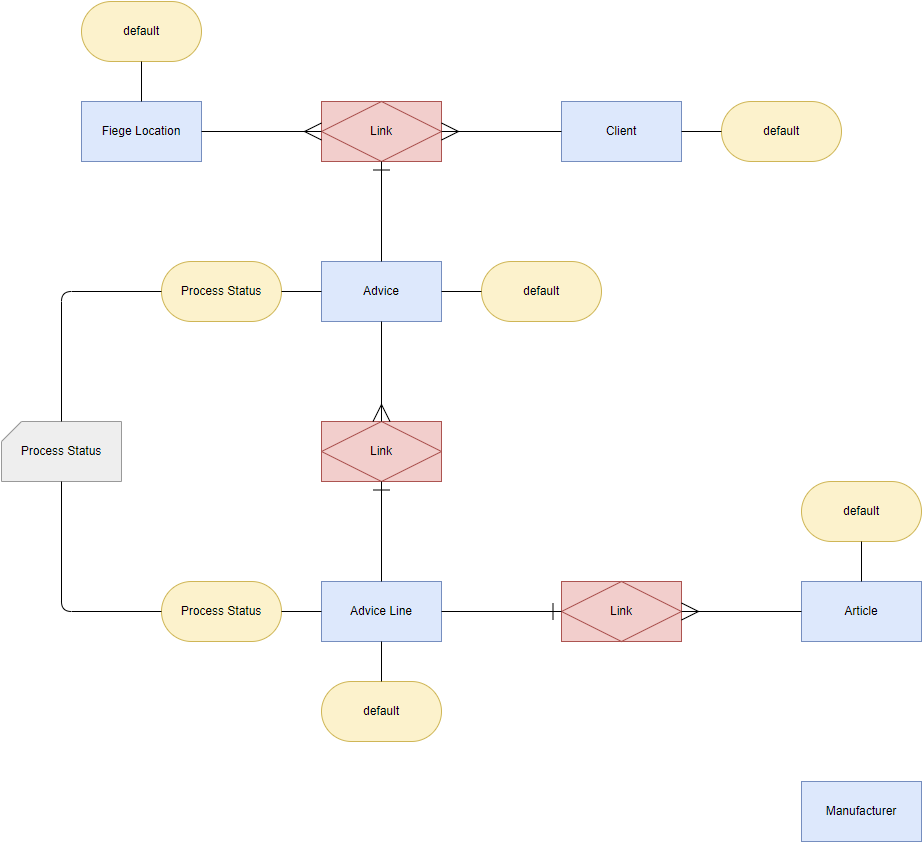
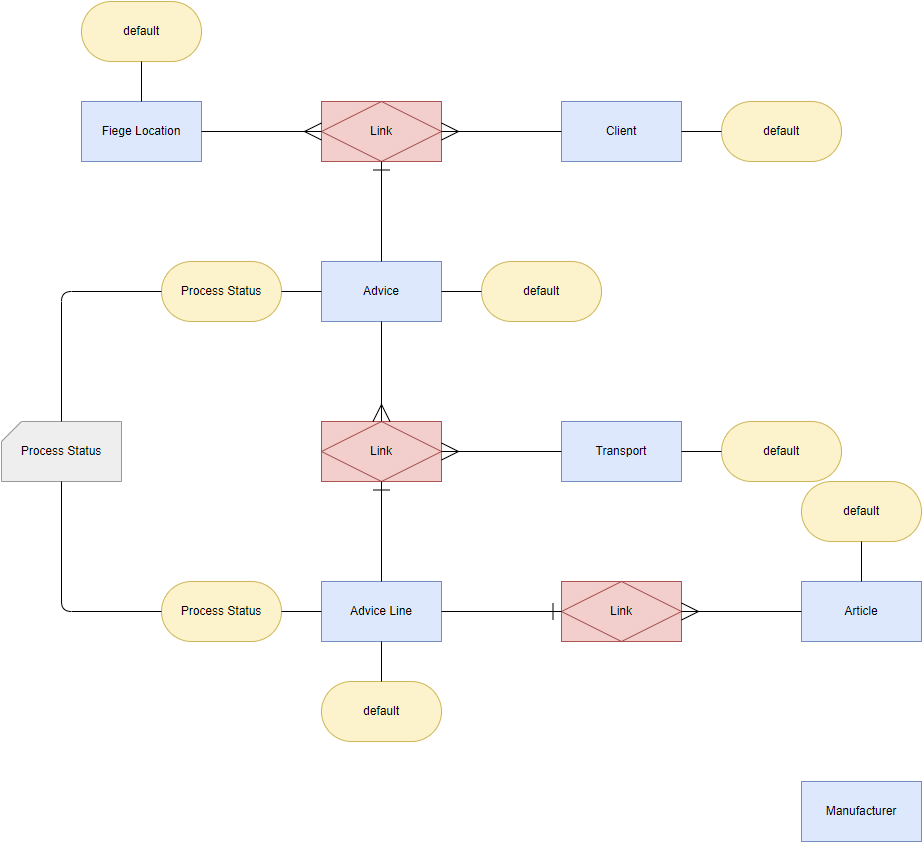
Automatisches Update via Skript

Changed region(s): [[0.6061, 0.4929, 0.9091, 0.5853], [0.4848, 0.5237, 0.5152, 0.5545]]

diff --git a/docs/Standard Inbound.md b/docs/Standard Inbound.md
@@ -22,6 +22,8 @@
 |Standard Inbound.mK-Mi_4KFUAdVltzjD9l-2|Satellite|Process Status|
 |Standard Inbound.mK-Mi_4KFUAdVltzjD9l-6|Reference|Process Status|
 |Standard Inbound.XAUylolUDNEYOAg-yCa5-1|Hub|Manufacturer|
+|Standard Inbound.XAUylolUDNEYOAg-yCa5-2|Hub|Transport|
+|Standard Inbound.XAUylolUDNEYOAg-yCa5-3|Satellite|default|
 
 ## recognized connections from b.telligent Shape Library:
 
@@ -43,3 +45,5 @@
 |Hub|Advice|Hub-to-Sat||Satellite|Process Status|Standard Inbound.mK-Mi_4KFUAdVltzjD9l-5|Standard Inbound.CRDZAX5_v3VsPTcbH_Vh-21|Standard Inbound.mK-Mi_4KFUAdVltzjD9l-1
 |Satellite|Process Status|Hub-to-Sat||Reference|Process Status|Standard Inbound.mK-Mi_4KFUAdVltzjD9l-7|Standard Inbound.mK-Mi_4KFUAdVltzjD9l-1|Standard Inbound.mK-Mi_4KFUAdVltzjD9l-6
 |Reference|Process Status|Hub-to-Sat||Satellite|Process Status|Standard Inbound.mK-Mi_4KFUAdVltzjD9l-8|Standard Inbound.mK-Mi_4KFUAdVltzjD9l-6|Standard Inbound.mK-Mi_4KFUAdVltzjD9l-2
+|Satellite|default|Hub-to-Sat||Hub|Transport|Standard Inbound.XAUylolUDNEYOAg-yCa5-4|Standard Inbound.XAUylolUDNEYOAg-yCa5-3|Standard Inbound.XAUylolUDNEYOAg-yCa5-2
+|Hub|Transport|Hub-to-Link-N||Link|Link|Standard Inbound.XAUylolUDNEYOAg-yCa5-5|Standard Inbound.XAUylolUDNEYOAg-yCa5-2|Standard Inbound.CRDZAX5_v3VsPTcbH_Vh-32
